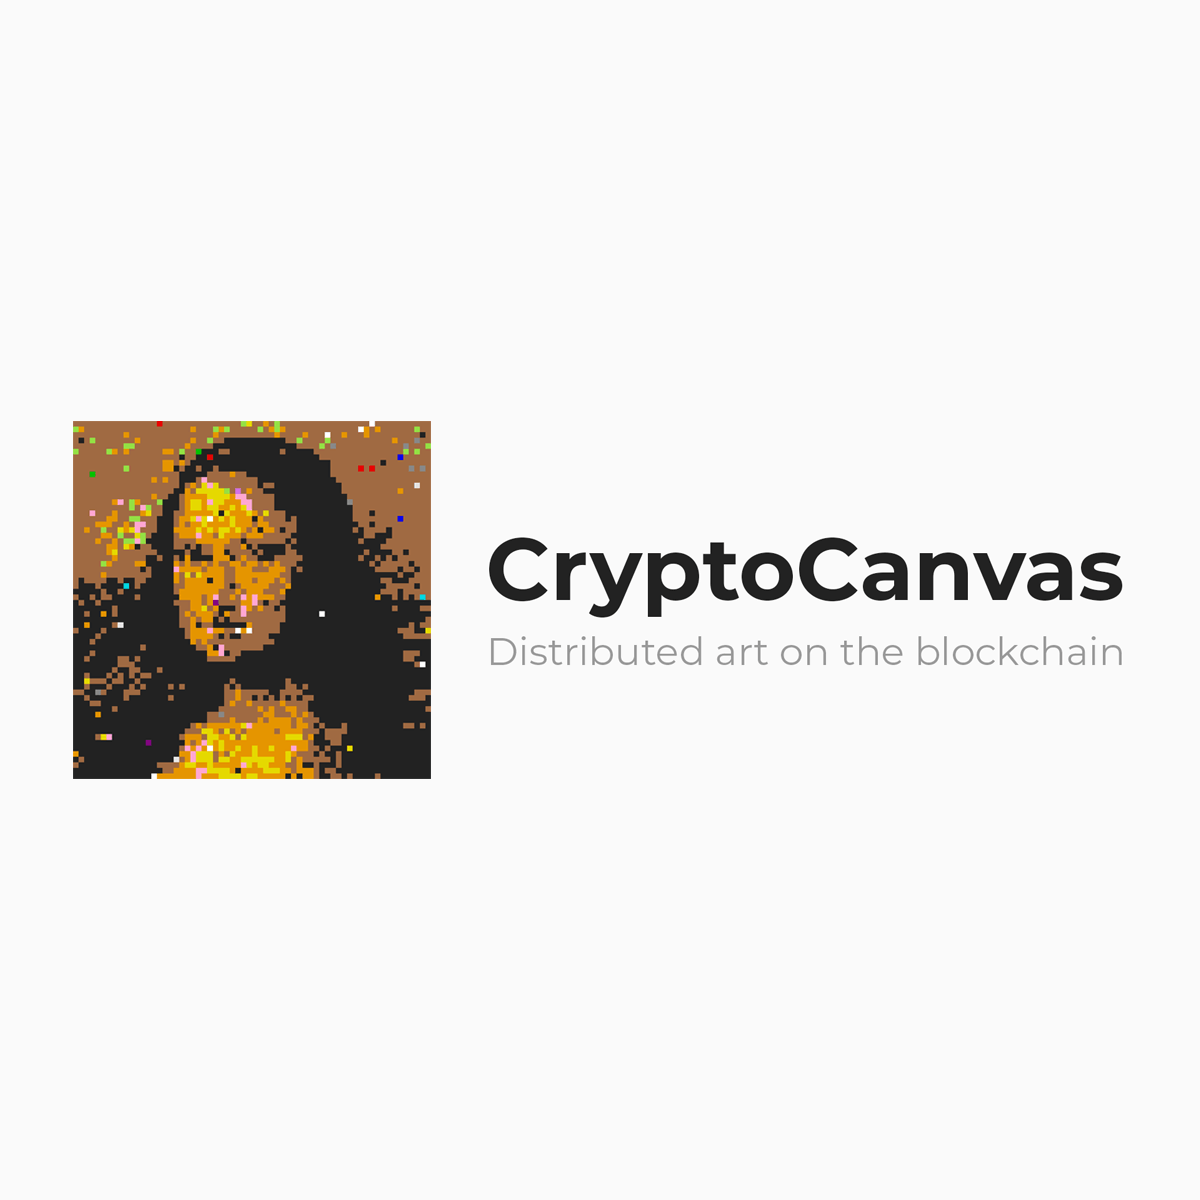
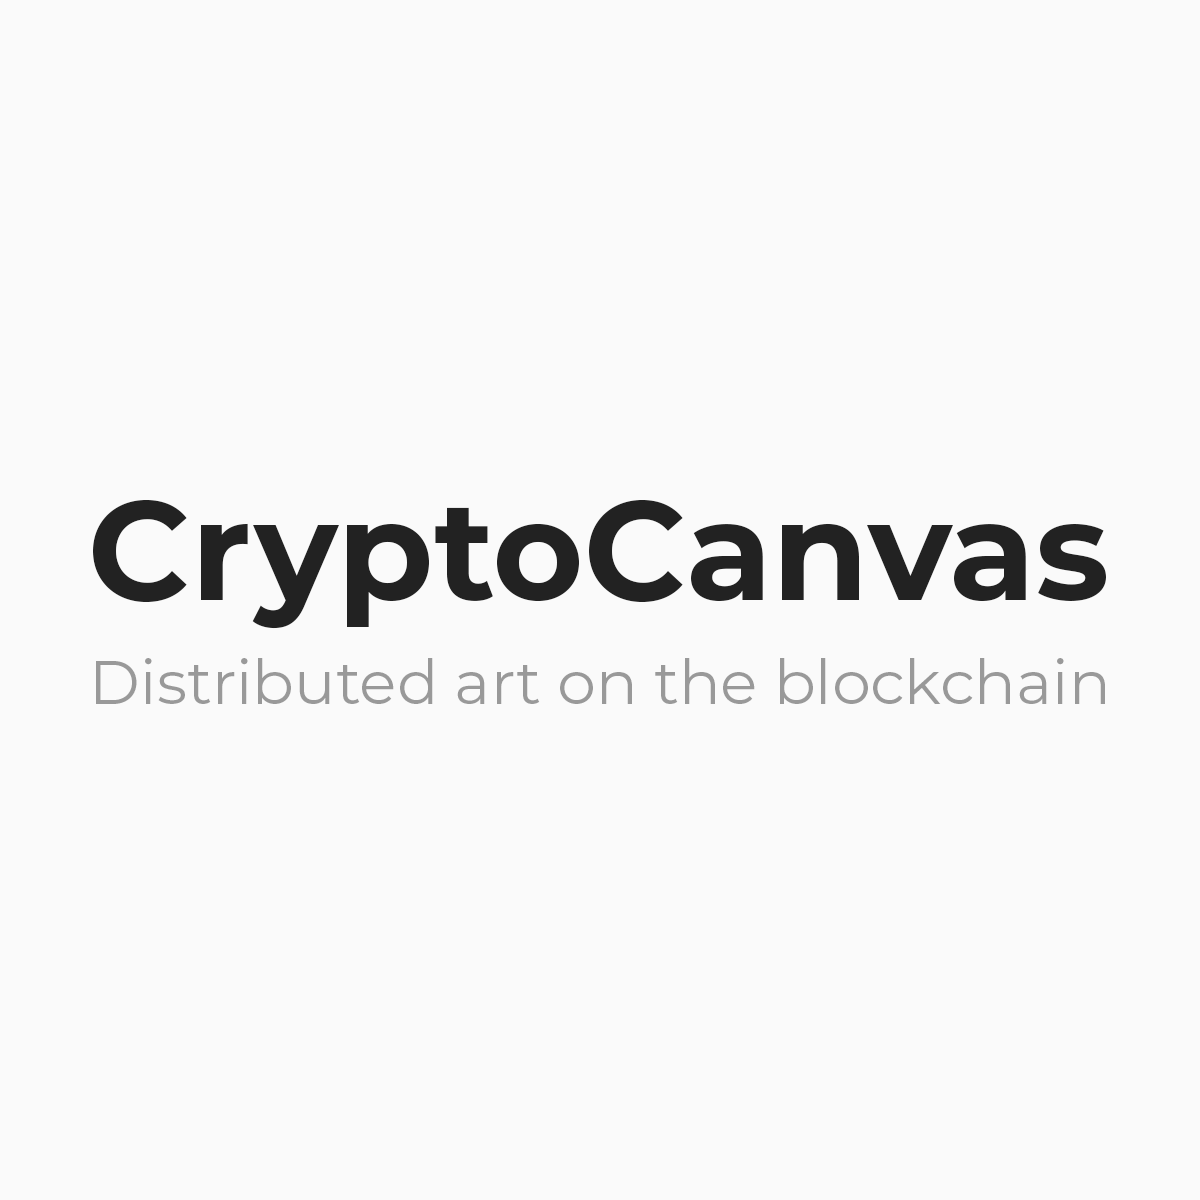
Update og tags and preview

Changed region(s): [[0.0617, 0.3392, 0.9558, 0.6475]]

diff --git a/public/index.html b/public/index.html
@@ -23,7 +23,9 @@
     <meta name="description" content="Collectible set of community created artworks living on the Ethereum blockchain. Paint a pixel and become the Blockchain Picasso." />
     <meta property="og:title" content="CryptoCanvas - Distributed art on the blockchain" />
     <meta property="og:description" content="Collectible set of community created artworks living on the Ethereum blockchain. Paint a pixel and become the Blockchain Picasso." />
-    <meta property="og:image" content="%PUBLIC_URL%/preview.png" />
+    <meta property="og:image" content="%PUBLIC_URL%/preview2.png" />
+    <meta property="og:url" content="https://cryptocanvas.art" />
+    <meta property="og:type" content="website" />
 
     <script src="/web3.js"></script>
     <link href="https://fonts.googleapis.com/css?family=Montserrat:400,700" rel="stylesheet">
